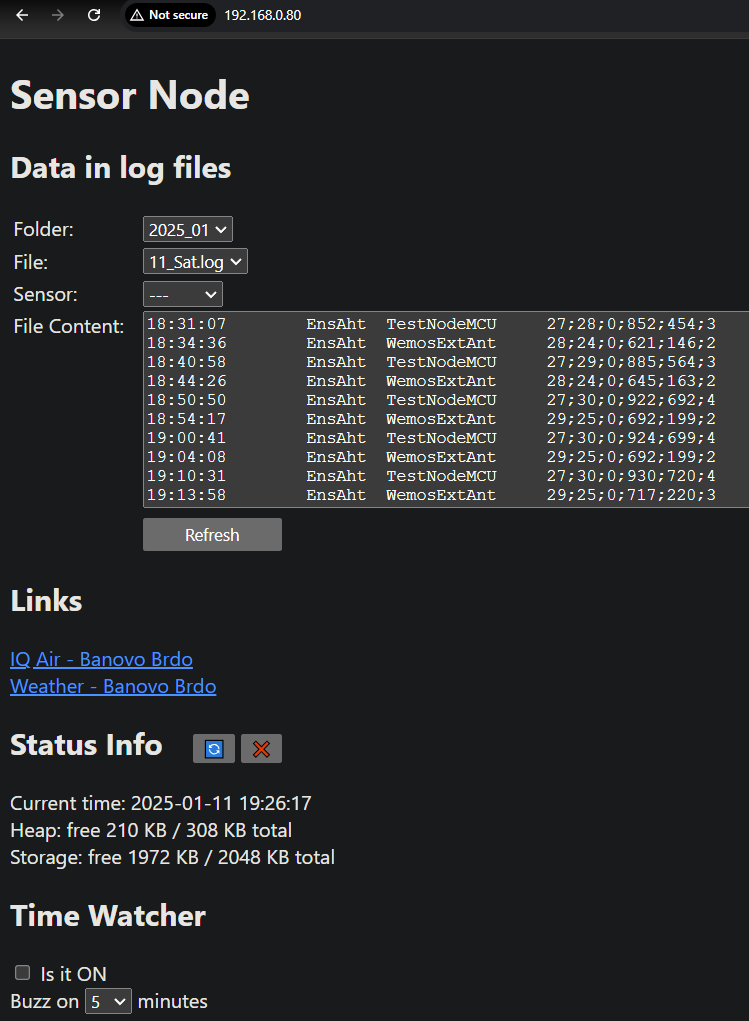
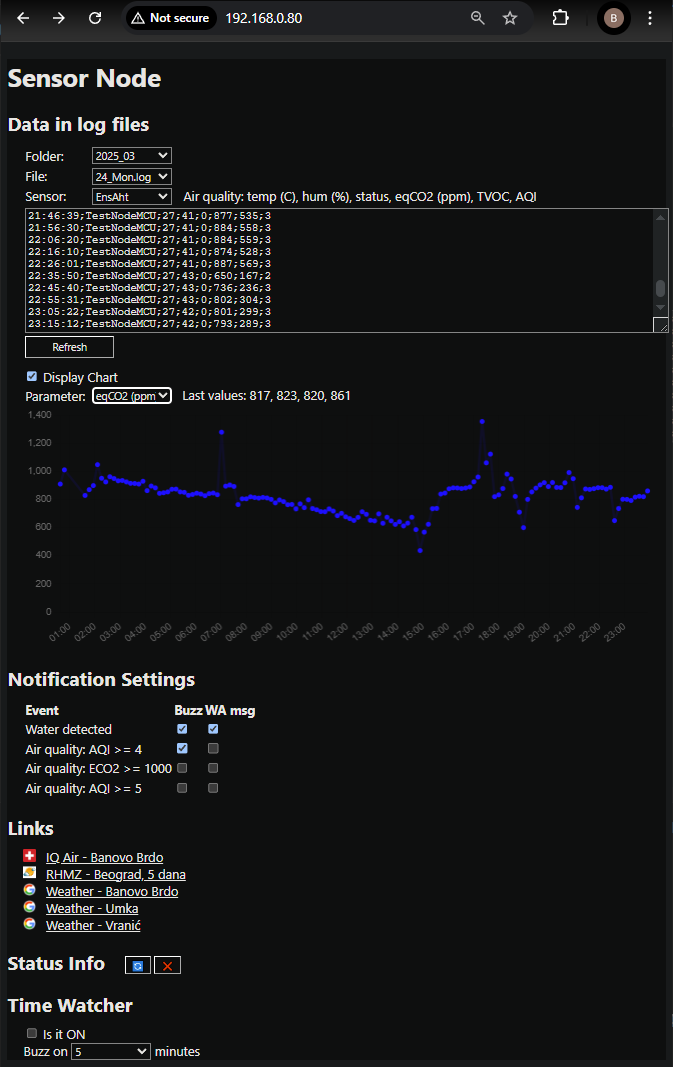
Add new project: temperature (sensor node) Add bmp.cpp to project temperature (NOT TESTED) M index.html: improve layout (size of the chart when width of the window changes), display last values for the selected param M web_page_interface.png: web interface image in README.md

diff --git a/data/ws/index.html b/data/ws/index.html
@@ -4,9 +4,9 @@
 <head>
     <meta charset="UTF-8">
     <meta name="viewport" content="width=device-width, initial-scale=1.0">
-    <!-- <meta http-equiv="Cache-Control" content="no-cache, no-store, must-revalidate">
+    <meta http-equiv="Cache-Control" content="no-cache, no-store, must-revalidate">
     <meta http-equiv="Pragma" content="no-cache">
-    <meta http-equiv="Expires" content="0"> -->
+    <meta http-equiv="Expires" content="0">
     <title>Sensor Node</title>
     <script src="https://cdn.jsdelivr.net/npm/chart.js"></script>
     <script src="https://cdn.jsdelivr.net/npm/luxon@^3"></script>
@@ -54,6 +54,20 @@
             /* width: 50%; */
             margin-right: 20px;
             /* max-width: none; */
+            overflow: hidden;
+            /* Prevents content from expanding beyond */
+            max-width: 100%;
+            /* Ensures the table doesn’t get too wide */
+        }
+
+        #myChart {
+            max-height: 300px;
+            display: block;
+            /* Prevents inline whitespace issues */
+            max-width: 100%;
+            /* Ensures the chart does not overflow */
+            height: auto; 
+            /* Maintain aspect ratio */
         }
 
         .linkIcon {
@@ -65,7 +79,7 @@
         function CmbFileNameChange() {
             txtContent.value = '';
             const fileName = cmbFileName.value;
-            if (fileName == '---') {
+            if (fileName == NOTHING) {
                 Loading(false);
                 return;
             }
@@ -140,7 +154,7 @@
             xhttp.onreadystatechange = function () {
                 if (this.readyState == 4 && this.status == 200) {
                     cmbFiles.innerHTML = '';
-                    cmbFiles.appendChild(CreateOption(NO_VALUE, NO_VALUE));
+                    cmbFiles.appendChild(CreateOption(NOTHING, NOTHING));
                     for (const line of this.responseText.split(/\r?\n/)) {
                         if (line.trim().length == 0)
                             continue;
@@ -161,12 +175,12 @@
             spnSensorTypeComment.innerHTML = '';
         }
 
-        const NO_VALUE = '---';
-        var selectedSensor = NO_VALUE;
+        const NOTHING = '---';
+        var selectedSensor = NOTHING;
         var fileContent;
 
         function CmbFilesChange() {
-            if (cmbFiles.value == '---') {
+            if (cmbFiles.value == NOTHING) {
                 txtFile.innerHTML = '';
                 return;
             }
@@ -184,7 +198,7 @@
                         // if (!devices.includes(parts[2]))
                         //     devices.push(parts[2]);
                     }
-                    cmbSensors.appendChild(CreateOption('---', '---'));
+                    cmbSensors.appendChild(CreateOption(NOTHING, NOTHING));
                     for (const s of sensors)
                         cmbSensors.appendChild(CreateOption(s, s));
                     cmbSensors.value = selectedSensor;
@@ -203,7 +217,7 @@
 
         function CmbSensorsChange() {
             const sens = cmbSensors.value;
-            if (sens == NO_VALUE)
+            if (sens == NOTHING)
                 DisplayText(fileContent);
             else {
                 var lines = [];
@@ -225,10 +239,15 @@
                             s = parts[1];
                             parts = s.split(', ');
                             cmbChartParams.innerHTML = '';
-                            cmbChartParams.appendChild(CreateOption(-1, '---'));
+                            cmbChartParams.appendChild(CreateOption(-1, NOTHING));
                             var idx = 0;
                             for (const p of parts)
                                 cmbChartParams.appendChild(CreateOption(idx++, p));
+                        }
+                        //TODO ovo bi trebalo uopstiti - svaki senzor bi trebalo da ima svoj def param
+                        if (lastCharParam == -1) {
+                            if (cmbSensors.value == 'EnsAht')
+                                lastCharParam = 3; // eqCO2 (ppm)
                         }
                         cmbChartParams.value = lastCharParam;
                         ChkDisplayChartCheck(true);
@@ -250,9 +269,6 @@
         function CmbChartParamsChange() {
             const col = parseInt(cmbChartParams.value);
             if (col == -1)
-                // tblChart.style.visibility = 'collapse';
-                // myChart.style.visibility = 'collapse';
-                // chkDisplayChart.checked = false;
                 ChkDisplayChartCheck(false);
             else {
                 var xs = [];
@@ -264,27 +280,25 @@
                     ys.push(parts[2 + col]);
                 }
                 chart.data.labels = xs;
-                chart.data.datasets.forEach((dataset) => {
-                    dataset.data = ys;
+                chart.data.datasets.forEach((ds) => {
+                    ds.data = ys;
                 });
                 chart.update();
                 lastCharParam = cmbChartParams.value;
+                if (lastCharParam != -1 && lastCharParam != '')
+                    spnLastValues.innerHTML = 'Last values: ' + ys.slice(-4).join(", ");
             }
         }
 
-        var lastCharParam = NO_VALUE;
+        var lastCharParam = -1;
 
         function RefreshFile() {
-            if (cmbFolders.value == NO_VALUE)
+            if (cmbFolders.value == NOTHING)
                 cmbFolders.focus();
-            else if (cmbFiles.value == NO_VALUE)
+            else if (cmbFiles.value == NOTHING)
                 cmbFiles.focus();
-            else {
+            else
                 CmbFilesChange();
-                //?
-                // if (cmbSensors.value == NO_VALUE)
-                //     CmbSensorsChange();
-            }
         }
 
         function StatusInfo() {
@@ -335,8 +349,14 @@
         }
 
         function adjustChartWidth() {
-            tblChart.style.width = (window.innerWidth - 50) + 'px';
-            myChart.style.width = '100%';
+            // alert(window.innerWidth);
+            // tblChart.style.width = (window.innerWidth - 50) + 'px';
+            // myChart.style.width = '100%';
+            // alert(window.innerWidth + ", " + tblChart.style.width + ", " + myChart.style.width);
+            let width = window.innerWidth - 50;
+            tblChart.style.width = width + 'px';  // Set table width
+            myChart.style.width = width + 'px';   // Match canvas width
+            myChart.width = width;  // Explicitly set the canvas width to match
         }
         window.addEventListener('resize', adjustChartWidth);
 
@@ -421,11 +441,13 @@
                         <select id="cmbChartParams" onchange="CmbChartParamsChange()">
                             <option>---</option>
                         </select>
+                        &nbsp;
+                        <span id="spnLastValues"></span>
                     </td>
                 </tr>
                 <tr>
                     <td colspan="2">
-                        <canvas id="myChart" style="height:300px; max-height: 300px;"></canvas>
+                        <canvas id="myChart"></canvas>
                         <script>
                             var xValues = []; // '01:36:22', '01:39:22', '01:55:35'
                             const yValues = []; // 1, 4, 9

diff --git a/projects/temperature/bmp280.cpp b/projects/temperature/bmp280.cpp
@@ -1,0 +1,123 @@
+//* https://www.esp8266learning.com/esp8266-bmp280-sensor-example.php
+
+#include <Wire.h>
+#include <SPI.h>
+#include <Adafruit_Sensor.h>
+#include <Adafruit_BMP280.h>
+Adafruit_BMP280 bmp;
+
+#define SEC (1000)
+#define MIN (60 * SEC)
+
+const byte pinLed = LED_BUILTIN;
+void ledOn(bool on) { digitalWrite(pinLed, !on); }
+void ledOn_10sec()
+{
+    ledOn(true);
+    delay(10 * SEC);
+    ledOn(false);
+}
+
+#define USE_ESP_NOW
+#include "MacAddresses.h"
+
+#ifdef USE_ESP_NOW
+#ifdef ESP32
+#include <esp_now.h>
+#include <WiFi.h>
+// B uint8_t mac[] = {0x30, 0xC6, 0xF7, 0x04, 0x66, 0x04};
+uint8_t *mac = macEsp32BattConn;
+esp_now_peer_info_t peerInfo;
+// void OnDataSent(const uint8_t *mac, esp_now_send_status_t res)
+// {
+//     Serial.printf("Send status: 0x%X\n", res);
+//     // ledOn(sendStatus != ESP_NOW_SEND_SUCCESS);
+// }
+#else
+#include <espnow.h>
+#include <ESP8266WiFi.h>
+uint8_t *mac = macSoftEsp32BattConn;
+#endif
+#endif
+
+void setup()
+{
+    Serial.begin(115200);
+    Serial.println("\nBMP280 test");
+    pinMode(pinLed, OUTPUT);
+    ledOn(false);
+
+    // uint status = bmp.begin(BMP280_ADDRESS_ALT, BMP280_CHIPID);
+    // uint status = bmp.begin();
+    while (!bmp.begin(BMP280_ADDRESS_ALT, BMP280_CHIPID))
+    {
+        Serial.println(F("Could not find a valid BMP280 sensor, check wiring or "
+                         "try a different address!"));
+        Serial.print("SensorID was: 0x");
+        Serial.println(bmp.sensorID(), 16);
+        Serial.print("        ID of 0xFF probably means a bad address, a BMP 180 or BMP 085\n");
+        Serial.print("   ID of 0x56-0x58 represents a BMP 280,\n");
+        Serial.print("        ID of 0x60 represents a BME 280.\n");
+        Serial.print("        ID of 0x61 represents a BME 680.\n");
+        ledOn_10sec();
+    }
+
+#ifdef USE_ESP_NOW
+    WiFi.mode(WIFI_STA);
+    while (esp_now_init() != 0)
+    {
+        Serial.println("ESP NOW INIT FAIL");
+        ledOn_10sec();
+    }
+#ifdef ESP32
+    // esp_now_register_send_cb(OnDataSent);
+    memcpy(peerInfo.peer_addr, mac, 6);
+    peerInfo.channel = 0;
+    peerInfo.encrypt = false;
+    if (esp_now_add_peer(&peerInfo) != ESP_OK)
+    {
+        Serial.println("Failed to add peer");
+        // digitalWrite(pinLed, false);
+        ledOn(true);
+        while (true)
+            delay(100);
+    }
+#else
+    esp_now_set_self_role(ESP_NOW_ROLE_CONTROLLER);
+    // esp_now_register_send_cb(OnDataSent);
+    auto res = esp_now_add_peer(mac, ESP_NOW_ROLE_SLAVE, 1, NULL, 0);
+    printf("esp_now_add_peer res: 0x%X\n", res);
+    if (res != 0)
+        ledOn_10sec();
+#endif
+#endif
+}
+
+void loop()
+{
+    // Serial.print("Temperature = ");
+    // Serial.print(bmp.readTemperature());
+    // Serial.println(" *C");
+
+    auto t = bmp.readTemperature();
+    Serial.println(t);
+#ifdef USE_ESP_NOW
+    auto res = esp_now_send(mac, (uint8_t *)&t, sizeof(t));
+    printf("Send res: 0x%X\n", res);
+    if (res != 0)
+        ledOn_10sec();
+    ESP.deepSleep(10 * (MIN + SEC) * 1000);
+#else
+    ESP.deepSleep(10 * SEC * 1000);
+#endif
+
+
+    // Serial.print("Pressure = ");
+    // Serial.print(bmp.readPressure());
+    // Serial.println(" Pa");
+    // Serial.print("Approx altitude = ");
+    // Serial.print(bmp.readAltitude(1013.25)); // this should be adjusted to your local forcase
+    // Serial.println(" m");
+    // Serial.println();
+    delay(10000);
+}

diff --git a/projects/hub/main_hub.cpp b/projects/hub/main_hub.cpp
@@ -54,8 +54,6 @@ void startWebServer()
               { req->send(LittleFS, "/ws/img/google_16.png", "image/png"); });
     server.on("/img/iq_air_16.png", HTTP_GET, [](AsyncWebServerRequest *req)
               { req->send(LittleFS, "/ws/img/iq_air_16.png", "image/png"); });
-    // server.on("/img/rhmz.ico", HTTP_GET, [](AsyncWebServerRequest *req)
-    //           { req->send(LittleFS, "/ws/img/rhmz.ico", "image/png"); });
     server.on("/img/rhmz.ico", HTTP_GET, [](AsyncWebServerRequest *req)
               { req->send(LittleFS, "/ws/img/rhmz.ico", "image/x-icon"); });
 
